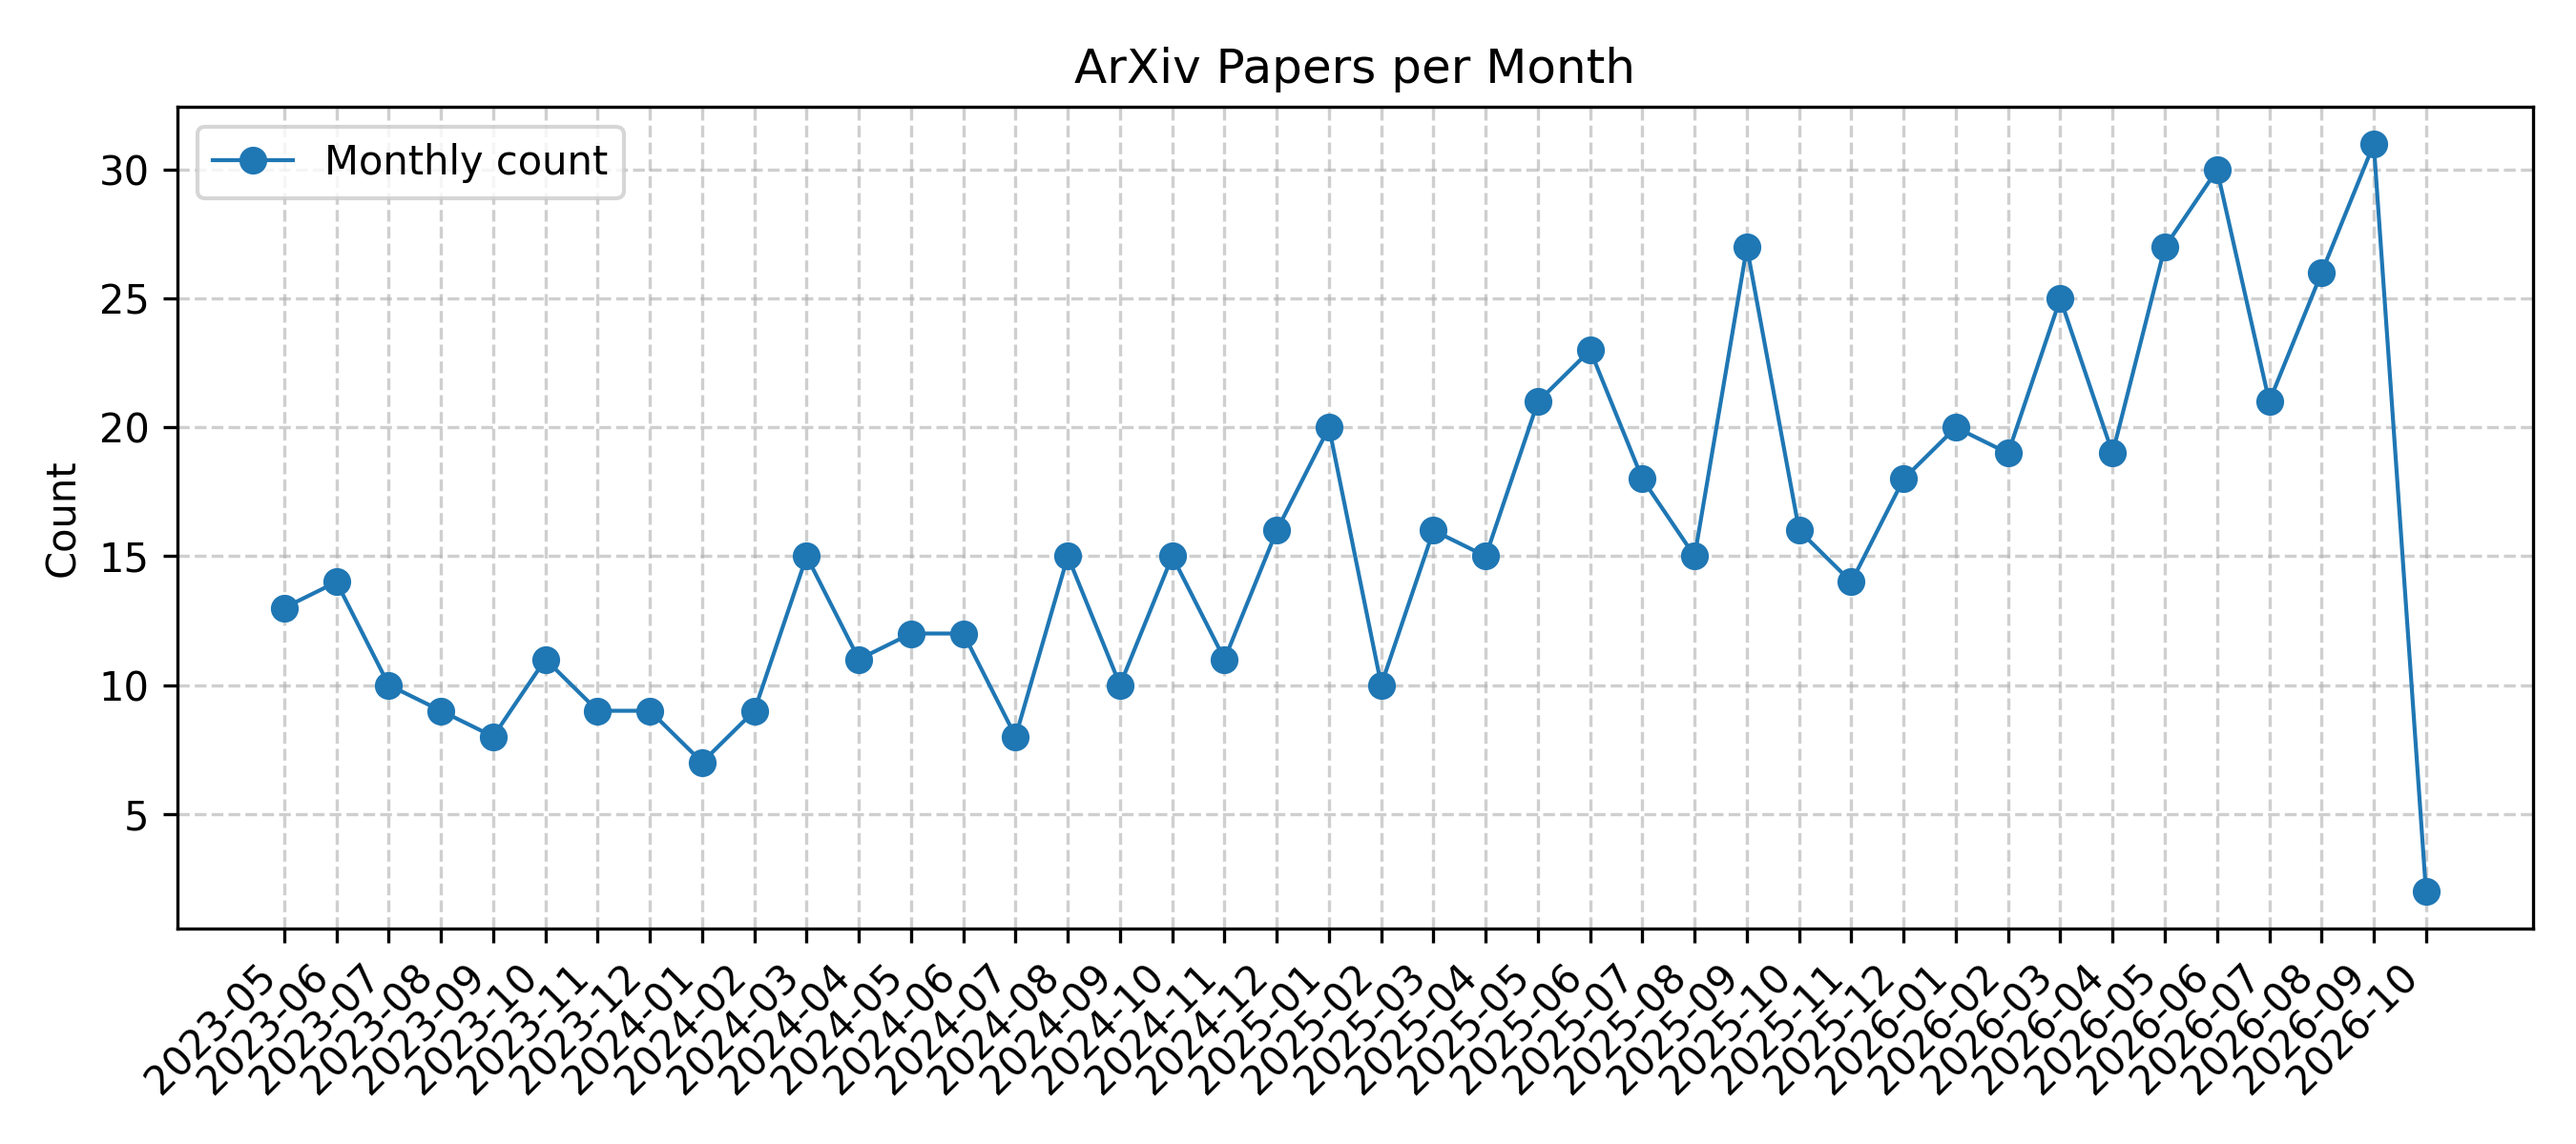
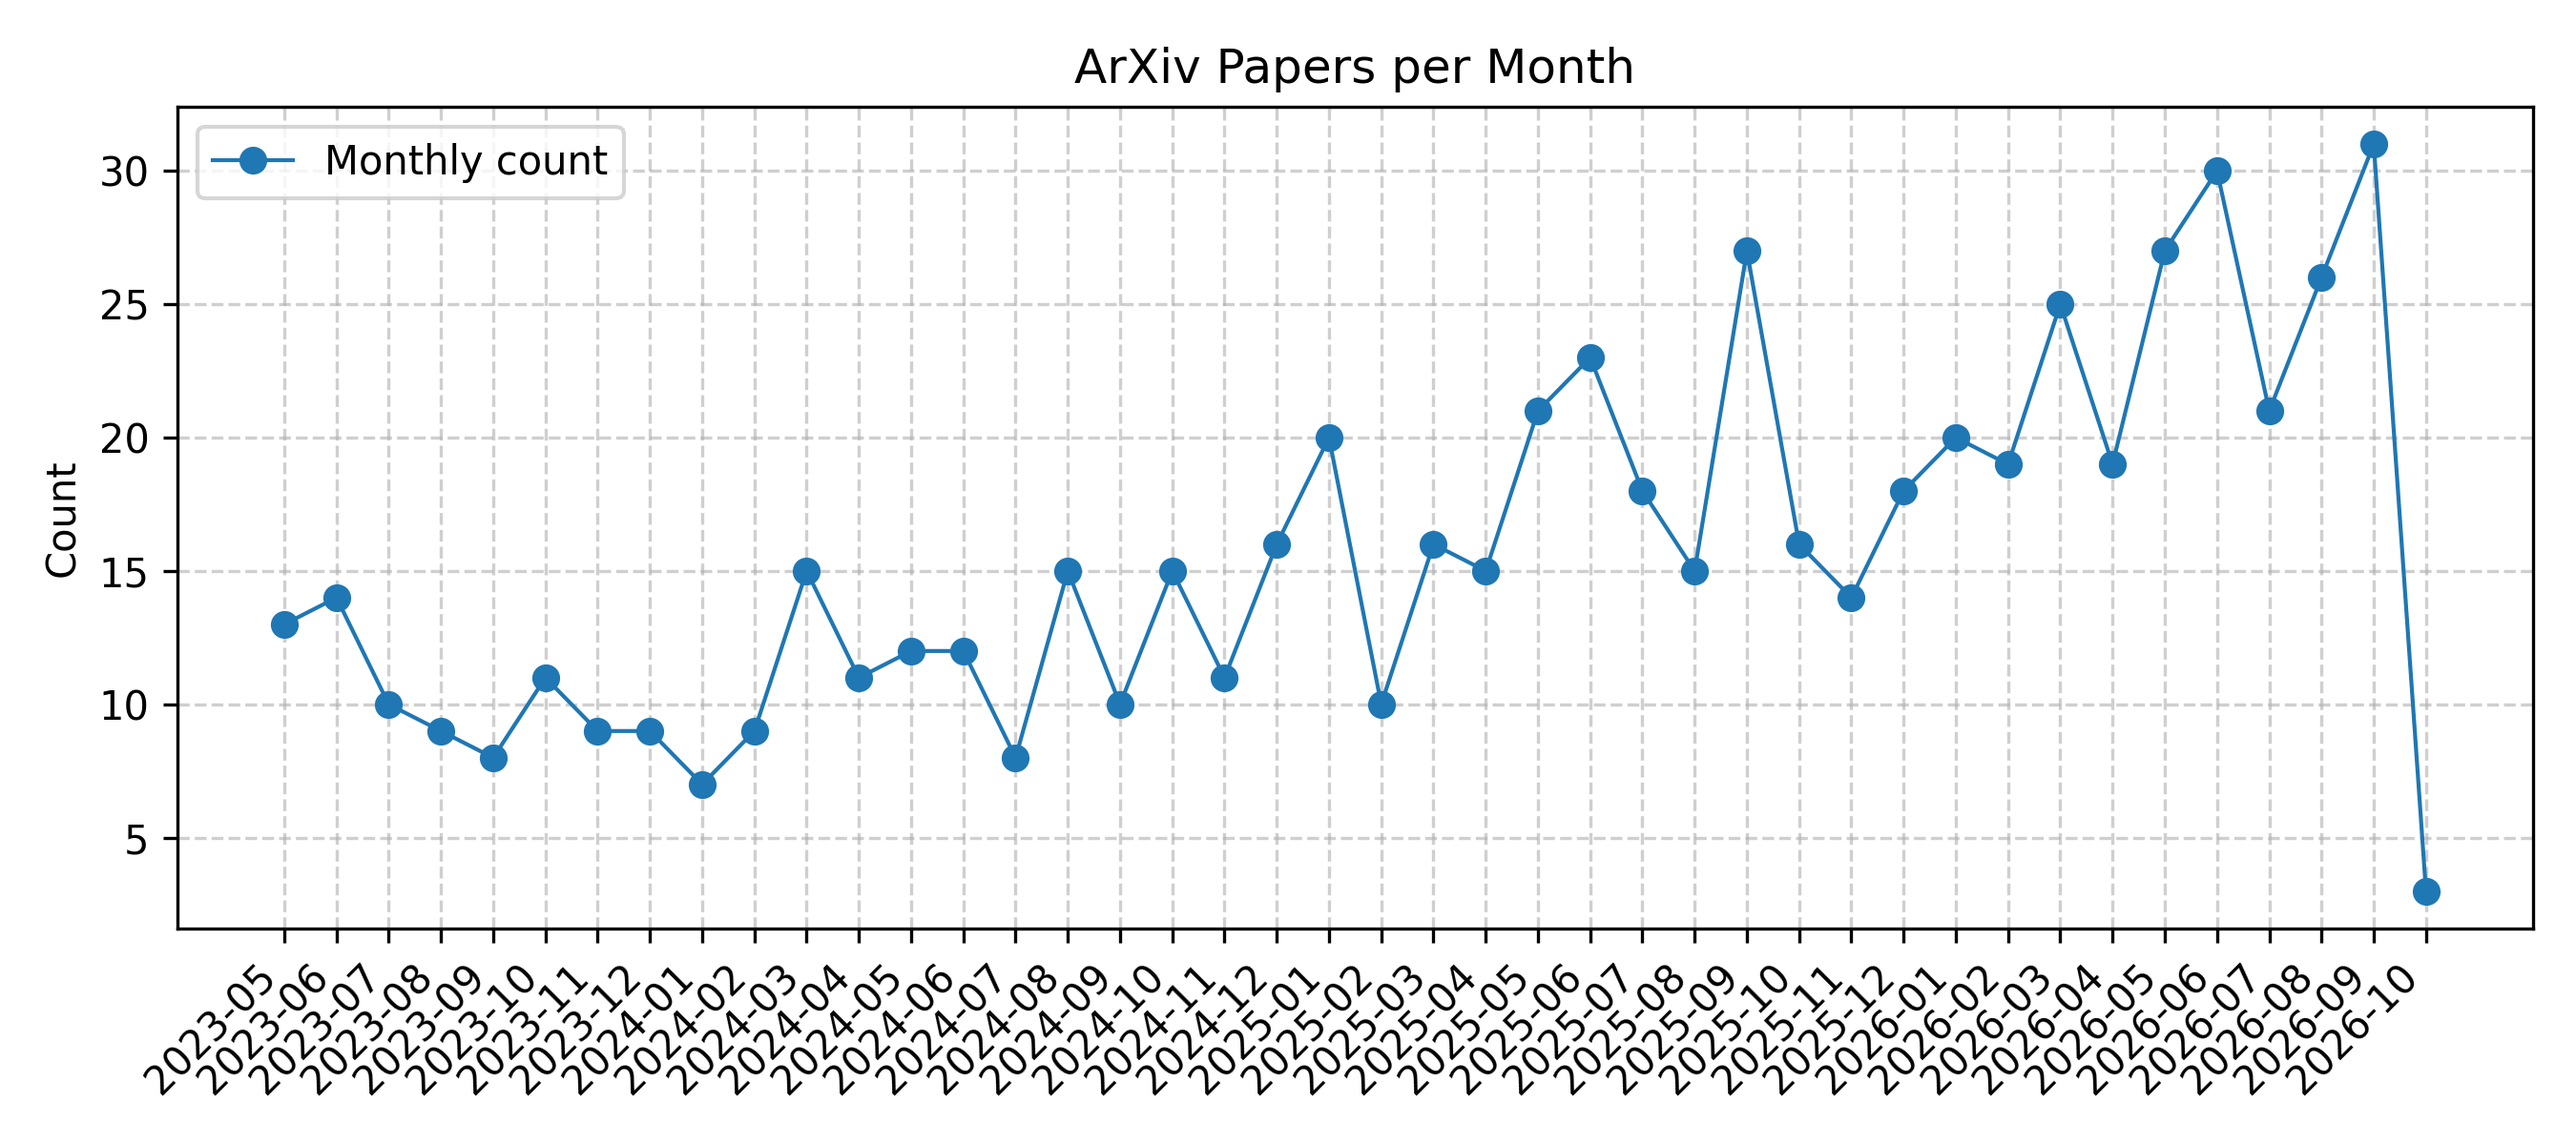
Github Action Automatic Update Diffusion NLP Arxiv Papers

diff --git a/README.md b/README.md
@@ -11,10 +11,11 @@ This repository tracks the latest GraphRAG related papers from arXiv.
 
 ## Recent Month Summary (2026-10)
 
-**2 paper(s)** submitted in 2026-10.
+**3 paper(s)** submitted in 2026-10.
 
 |Date|Title|PDF|Code|
 |---|---|---|---|
+|**2026-10-06**|**Foresight-over-Graph: Reasoning Beyond Local Horizons for Knowledge Base Question Answering**|[2610.08388v1](http://arxiv.org/abs/2610.08388v1)| **[code](https://github.com/yhong7/FoG)**|
 |**2026-10-05**|**Proof-Grounded Patient-Specific Clinical Explanations from Knowledge-Graph Reasoning**|[2610.06549v1](http://arxiv.org/abs/2610.06549v1)| null|
 |**2026-10-01**|**Hop-Decayed Influence: New Vulnerabilities of Structural Auxiliary Indexing in GraphRAG Pipelines with LLM**|[2610.02373v1](http://arxiv.org/abs/2610.02373v1)| **[code](https://github.com/Jisung-Pacific/HDI-GraphRAG-Attack)**|
 
@@ -22,6 +23,7 @@ This repository tracks the latest GraphRAG related papers from arXiv.
 
 |Date|Title|PDF|Code|
 |---|---|---|---|
+|**2026-10-06**|**Foresight-over-Graph: Reasoning Beyond Local Horizons for Knowledge Base Question Answering**|[2610.08388v1](http://arxiv.org/abs/2610.08388v1)| **[code](https://github.com/yhong7/FoG)**|
 |**2026-10-05**|**Proof-Grounded Patient-Specific Clinical Explanations from Knowledge-Graph Reasoning**|[2610.06549v1](http://arxiv.org/abs/2610.06549v1)| null|
 |**2026-10-01**|**Hop-Decayed Influence: New Vulnerabilities of Structural Auxiliary Indexing in GraphRAG Pipelines with LLM**|[2610.02373v1](http://arxiv.org/abs/2610.02373v1)| **[code](https://github.com/Jisung-Pacific/HDI-GraphRAG-Attack)**|
 |**2026-09-30**|**GraphCert: Bootstrap Agentic Graph Reasoning with Certified Evidence Rubrics**|[2609.38798v1](http://arxiv.org/abs/2609.38798v1)| null|
